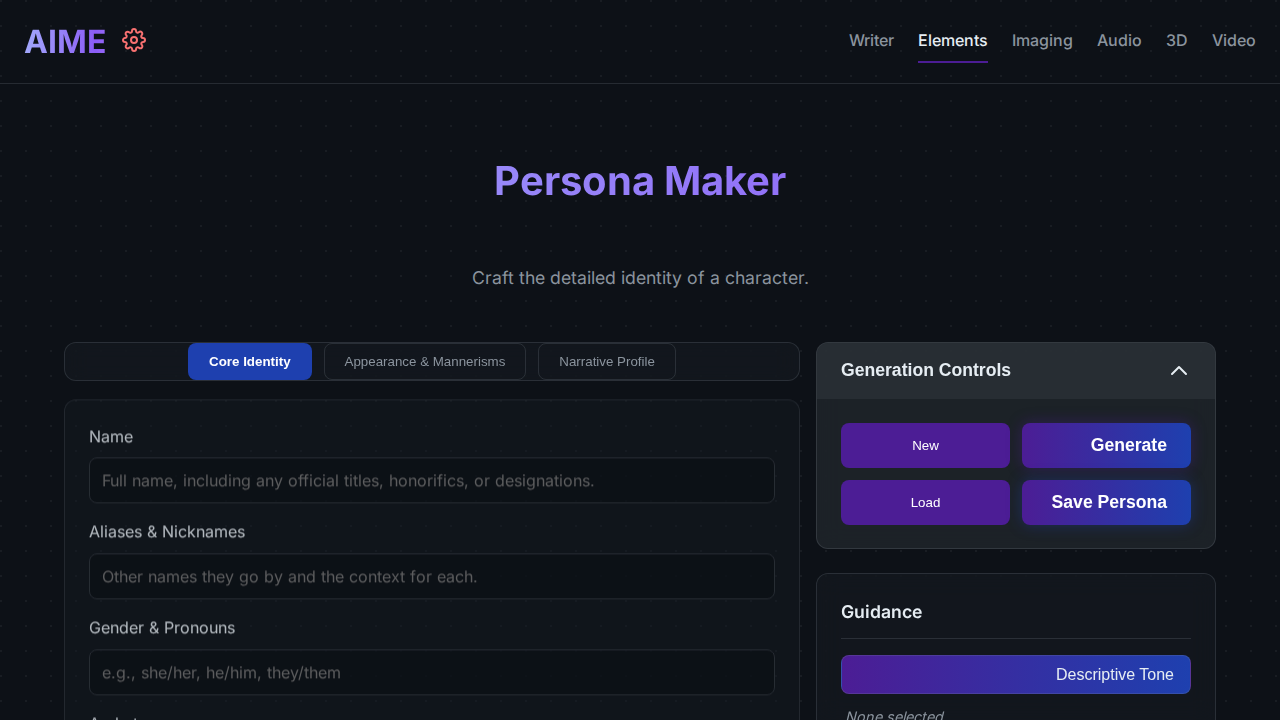
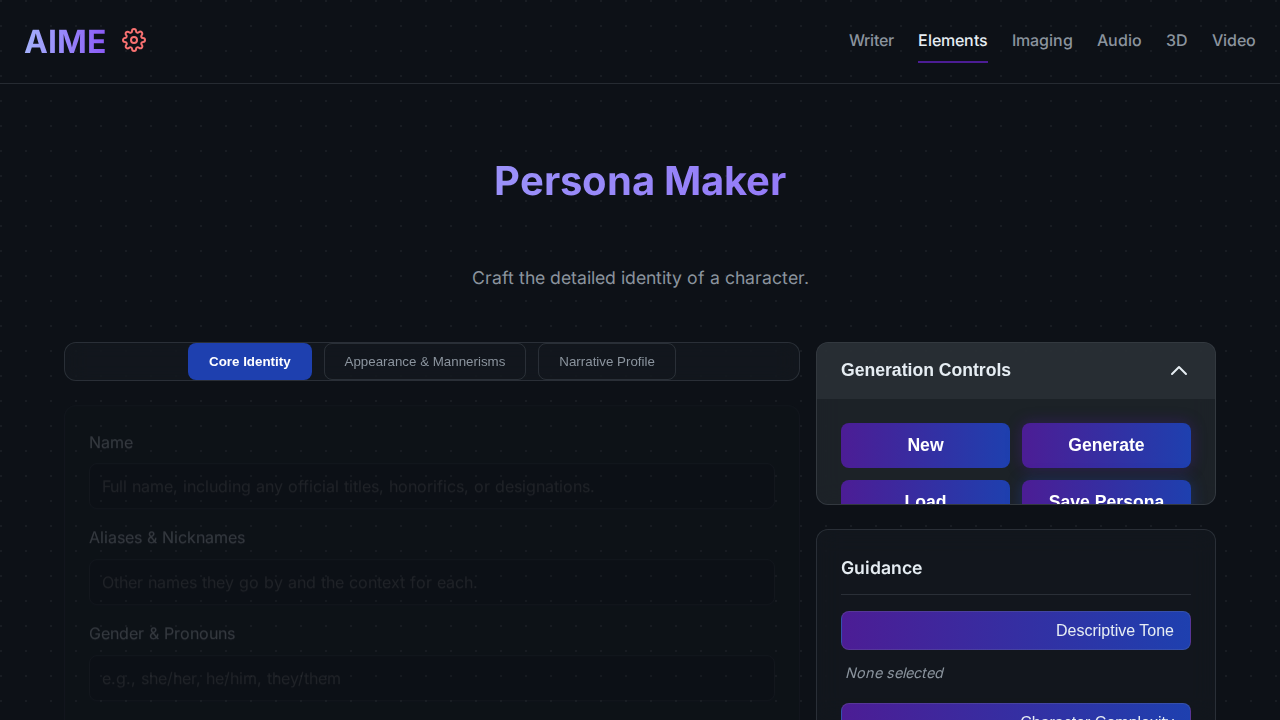
Refactor generation controls and file I/O
This commit refactors the generation controls and file input/output functionality across the application.

Key changes include:

1.  **Button Overhaul:**
    *   The "Clear All Fields" button has been removed from all element pages.
    *   A "New" button has been added to clear the workspace on both element and writer pages.
    *   A "Load" button has been added to allow users to load previously saved work.

2.  **File Format Standardization:**
    *   All files are now saved in a human-readable Markdown format.
    *   Files are saved with component-specific extensions:
        *   Element pages: `.persona`, `.world`, `.faction`, etc.
        *   Writer page: `.brainstorm`, `.outline`, `.draft`.

3.  **UI/UX Improvements:**
    *   The generation control buttons on both element and writer pages are now arranged in a consistent 2x2 grid for a cleaner, more uniform layout.

4.  **Test Updates:**
    *   All relevant Playwright usability tests have been updated to reflect the UI changes, ensuring they pass successfully.

diff --git a/style/style.css b/style/style.css
@@ -584,7 +584,7 @@ select.input-field {
     width: 100%;
     font-size: 1.1rem;
     margin-top: 0; /* Removed margin for grid layout */
-    text-align: right;
+    text-align: center;
 }
 .generate-btn-large {
     background: linear-gradient(90deg, var(--accent-purple), var(--accent-blue));
@@ -608,14 +608,6 @@ select.input-field {
     cursor: not-allowed;
 }
 .generation-controls-buttons {
-    display: flex;
-    flex-direction: column;
-    gap: 0.5rem;
-}
-
-/* Use a grid layout on the element pages, identified by the presence
-   of the .element-header, for the 2x2 button configuration. */
-.element-header + .workspace-layout .generation-controls-buttons {
     display: grid;
     grid-template-columns: repeat(2, 1fr);
     gap: 0.75rem;
@@ -827,6 +819,22 @@ select.input-field {
     transition: all 0.2s;
 }
 .action-btn:hover { background-color: #5b21b6; }
+
+/* Make action buttons inside the generation controls match the larger buttons */
+.generation-controls-buttons .action-btn {
+    padding: 12px 24px;
+    font-size: 1.1rem;
+    font-weight: bold;
+    text-align: center;
+    background: linear-gradient(90deg, var(--accent-purple), var(--accent-blue)); /* Match large buttons */
+    box-sizing: border-box; /* Ensure padding doesn't break layout */
+    width: 100%;
+}
+
+.generation-controls-buttons .action-btn:hover {
+    transform: translateY(-2px);
+    box-shadow: 0 0 25px rgba(30, 64, 175, 0.6);
+}
 
 .brainstorm-card {
     margin-bottom: 1.5rem;
